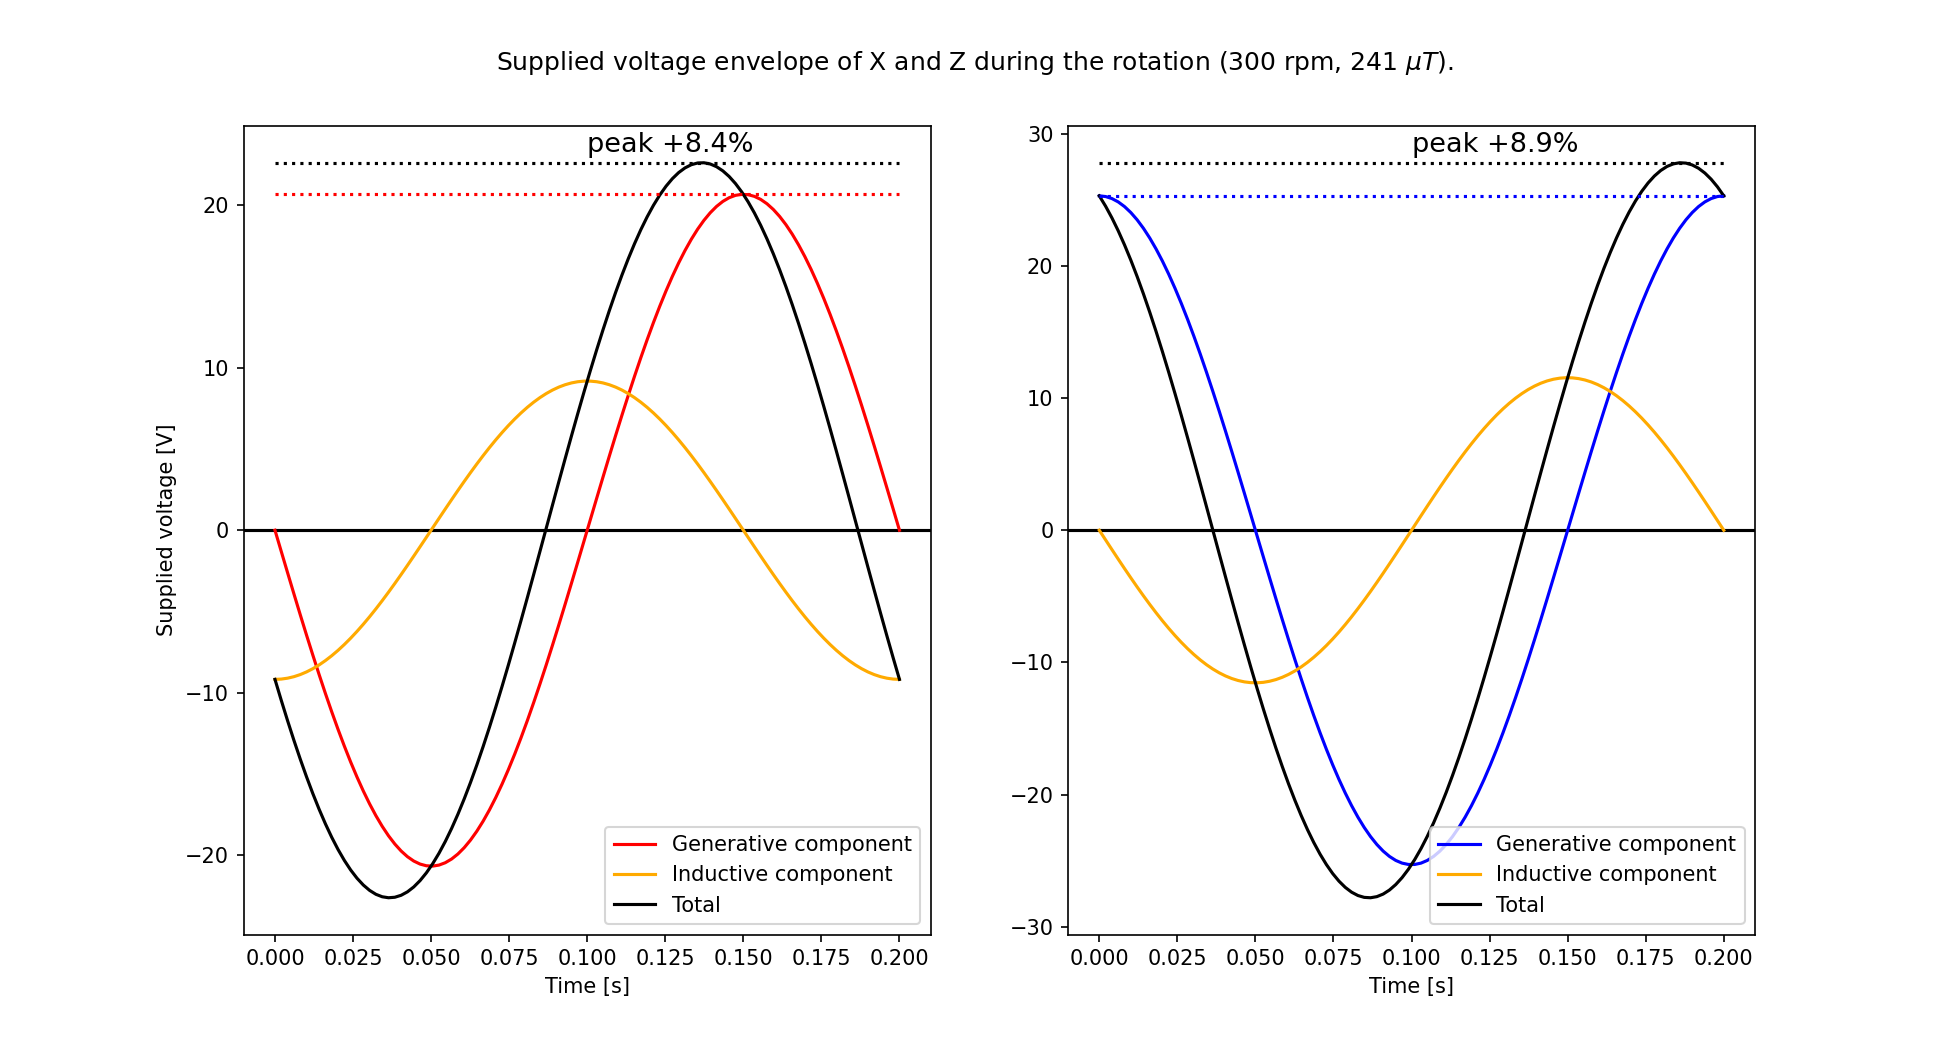
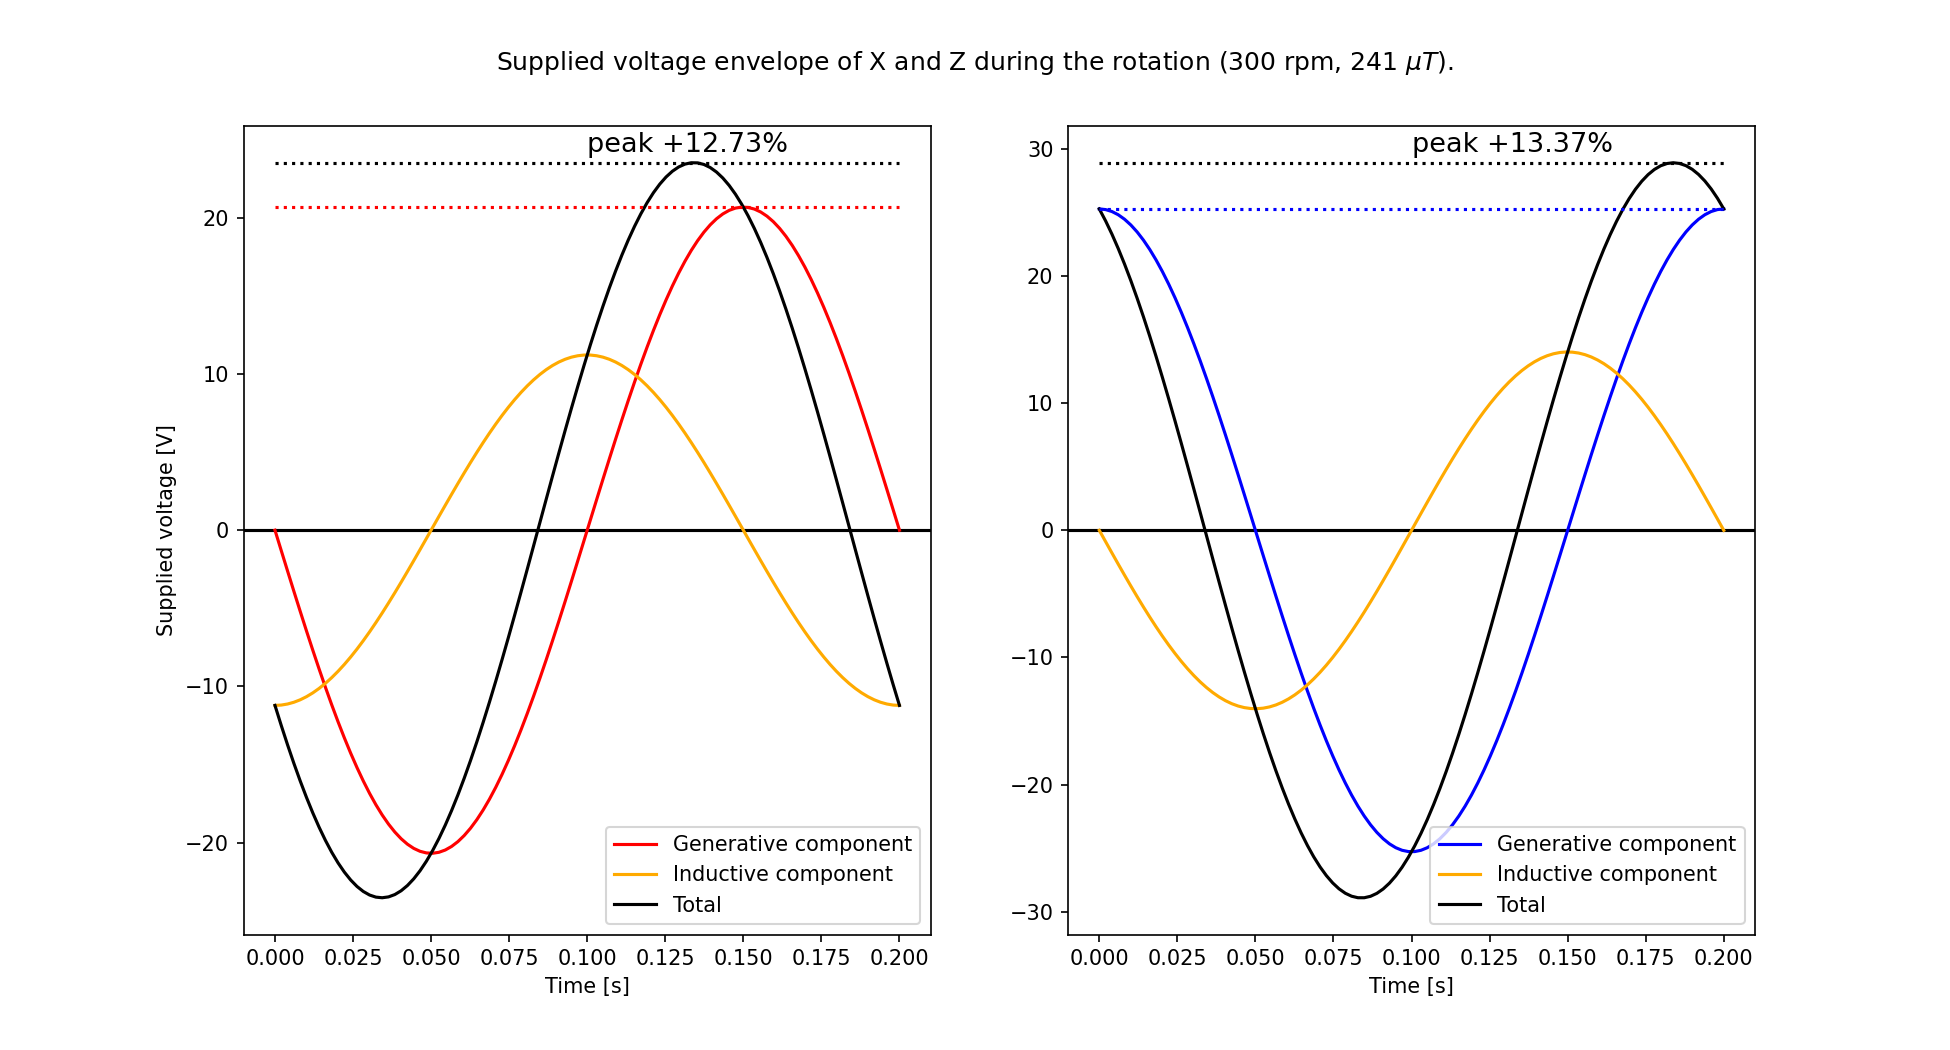
Updated coil width + implications for inductance

diff --git a/inductance_dynamics.py b/inductance_dynamics.py
@@ -65,7 +65,8 @@ Rcoils = [6.27, 6.85, 6.92] # Ohm
 
 N_windings = 83
 sidelength_coil = [1.85, 1.95, 2.05] # [m] X,Y,Z
-width_coil = 0.05 # [m] Coil thickness estimated 
+# width_coil = 0.05 # [m] Coil thickness estimated
+width_coil = 0.019 # [m] Coil thickness (from Poppenk2009)
 Rdl = 0.00657 # [Ohm/m] Impedance of coil wire (per meter)
 
 coilX = HHCoil(sidelength_coil[0],width_coil,N_windings,0,Rdl,supplyX)
@@ -150,6 +151,10 @@ ax2.plot(t, vz_total, "k", label="Total")
 # Dotted lines
 vzmf = max(vz_field)
 vzmt = max(vz_total)
+
+print("Max baseline:",vzmf,"V")
+print("Max total:",vzmt,"V")
+
 ax2.plot([t[0], (t[-1]-t[0])/2, t[-1]], [vzmf, vzmf, vzmf], 
           "b", linestyle="dotted")
 ax2.plot([t[0], (t[-1]-t[0])/2, t[-1]], [vzmt, vzmt, vzmt], 
@@ -160,9 +165,9 @@ ax1.set_xlabel("Time [s]")
 ax2.set_xlabel("Time [s]")
 ax1.set_ylabel("Supplied voltage [V]")
 
-ax1.text((t[-1]-t[0])/2, 1.03*vxmt, "peak +{}%".format(round(100*(vxmt/vxmf-1), 2)-1),
+ax1.text((t[-1]-t[0])/2, 1.03*vxmt, "peak +{}%".format(round(100*(vxmt/vxmf-1)-1, 2)),
          fontsize=13, c="k")
-ax2.text((t[-1]-t[0])/2, 1.03*vzmt, "peak +{}%".format(round(100*(vzmt/vzmf-1), 2)-1),
+ax2.text((t[-1]-t[0])/2, 1.03*vzmt, "peak +{}%".format(round(100*(vzmt/vzmf-1)-1, 2)),
          fontsize=13, c="k")
 
 ax1.legend(loc="lower right")
